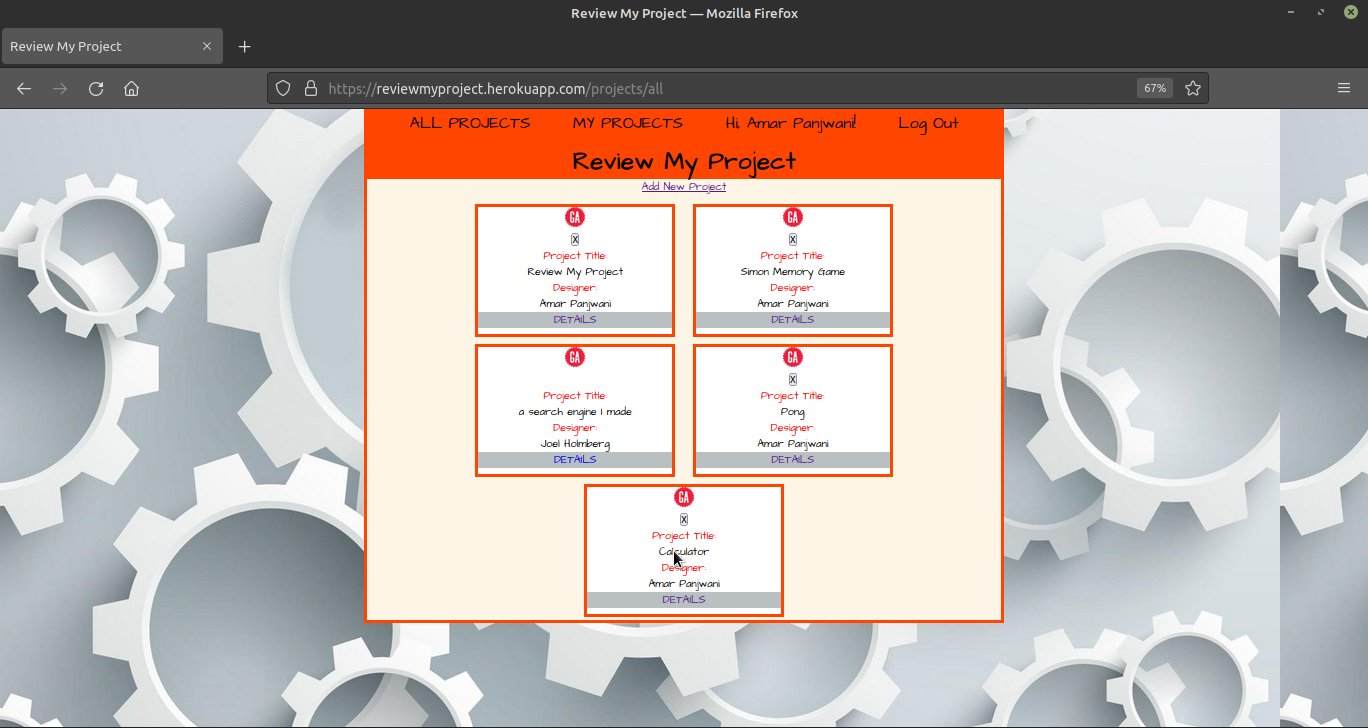
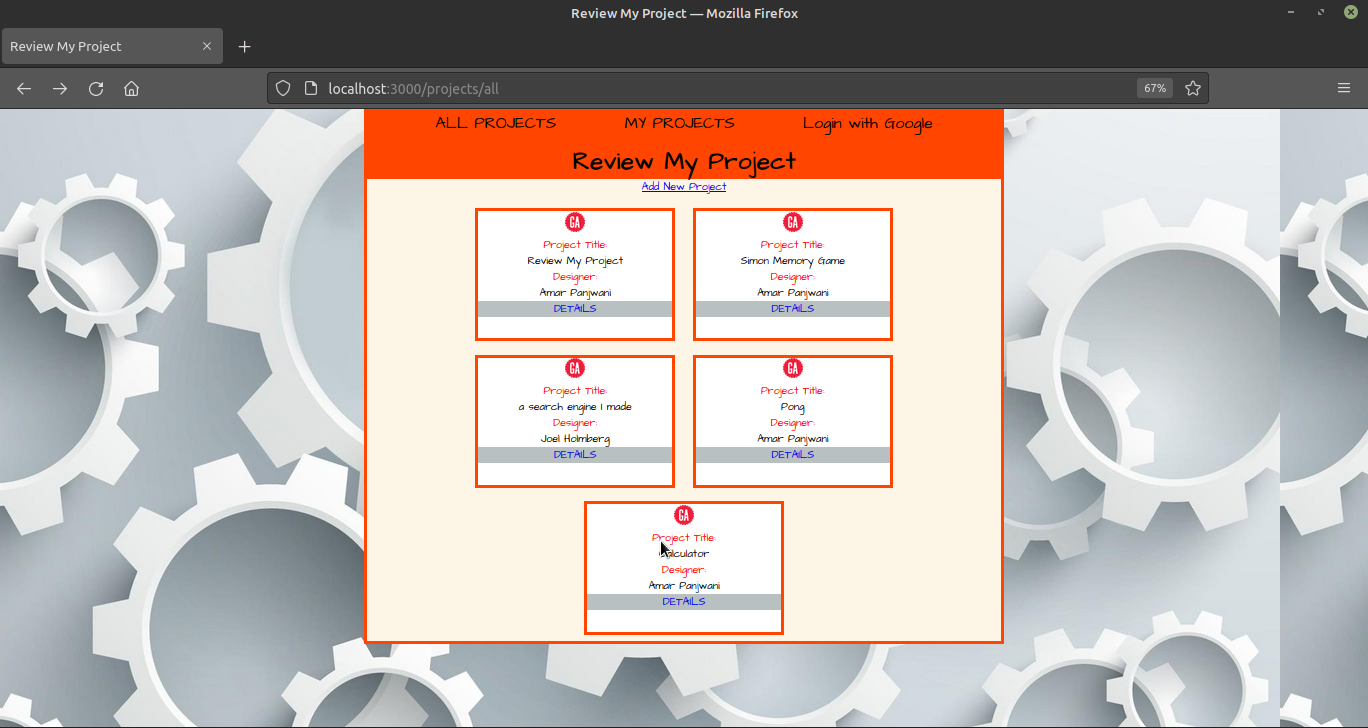
update screenshots with equal margins

Changed region(s): [[0.2456, 0.2418, 0.7368, 0.9066], [0.2456, 0.0907, 0.7061, 0.1813]]

diff --git a/public/stylesheets/index.css b/public/stylesheets/index.css
@@ -189,7 +189,7 @@ footer {
 
 #card {
  display: inline-block;
- margin: 5px 5px;
+ margin: 10px 10px;
  height: 200px;
 }
 
